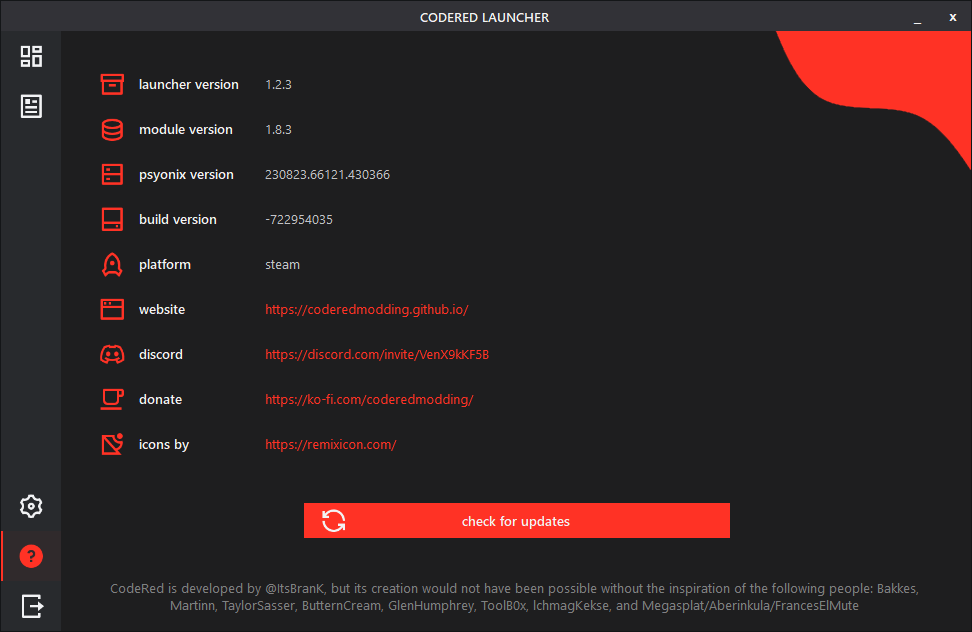
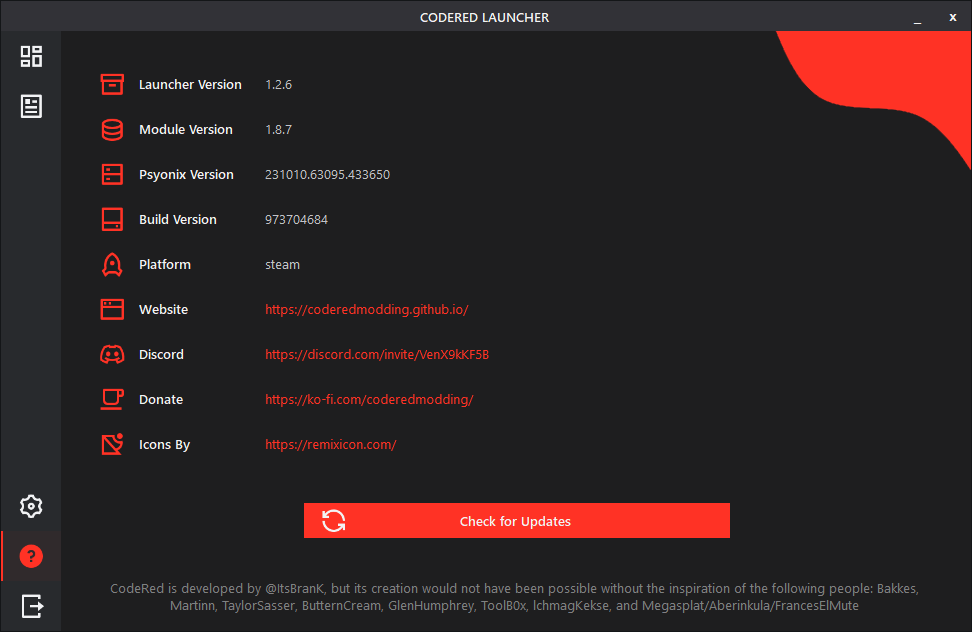
Update launcher previews

diff --git a/changelog.html b/changelog.html
@@ -53,6 +53,7 @@
 		    <nav id="docs-nav" class="docs-nav navbar">
 			    <ul class="section-items list-unstyled nav flex-column pb-3">
                     <li class="nav-item section-title mt-3"><a class="nav-link scrollto" href="#section-2"><span class="theme-icon-holder me-2"><i class="fas fa-book"></i></span>Module Changelog (Alpha)</a></li>
+                    <li class="nav-item"><a class="nav-link scrollto" href="#item-2-8-8">Version 1.8.8</a></li>
                     <li class="nav-item"><a class="nav-link scrollto" href="#item-2-8-7">Version 1.8.7</a></li>
                     <li class="nav-item"><a class="nav-link scrollto" href="#item-2-8-6">Version 1.8.6</a></li>
                     <li class="nav-item"><a class="nav-link scrollto" href="#item-2-8-5">Version 1.8.5</a></li>
@@ -178,6 +179,11 @@
 		    <div class="container">
 			    <article class="docs-article" id="section-2">
                     <h1 class="docs-heading">Module Changelog (Alpha)</h1>
+
+                        <section class="docs-section" id="item-2-8-8">
+                            <h2 class="section-heading">Version 1.8.8 (October 31st 2023)</h2>
+                            <h5></h5>
+                        </section>
 
                         <section class="docs-section" id="item-2-8-7">
                             <h2 class="section-heading">Version 1.8.7 (October 18th 2023)</h2>
